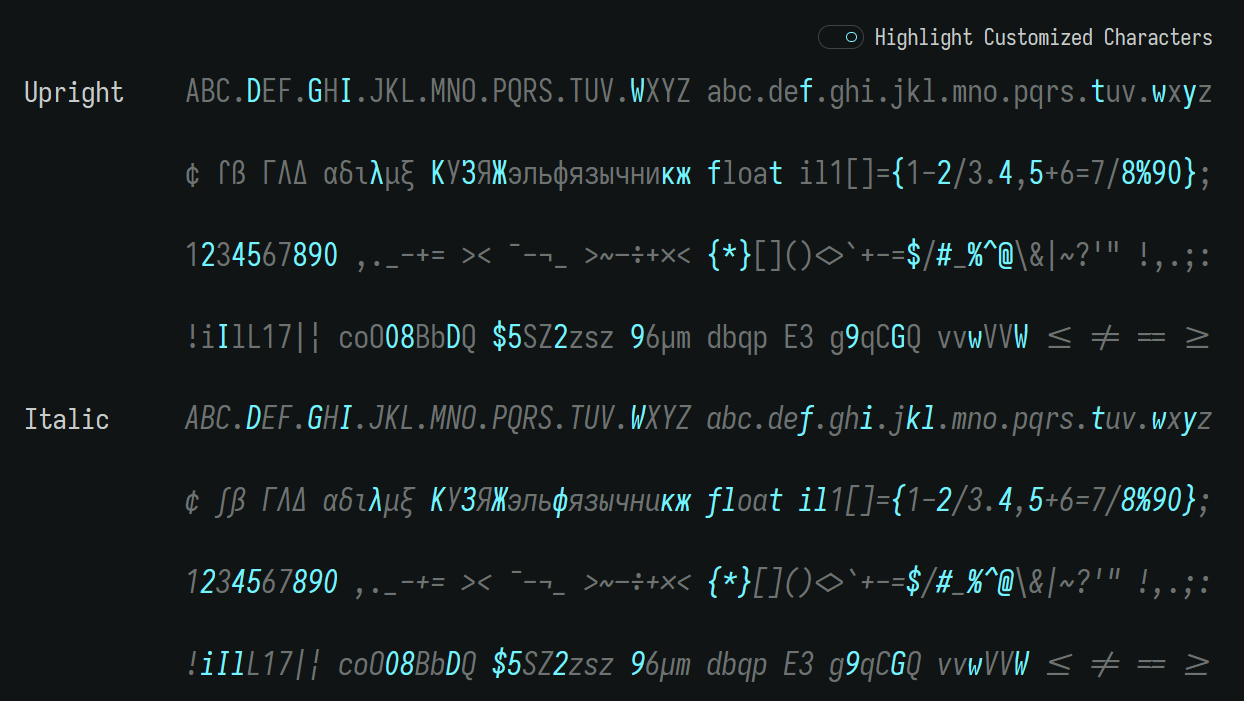
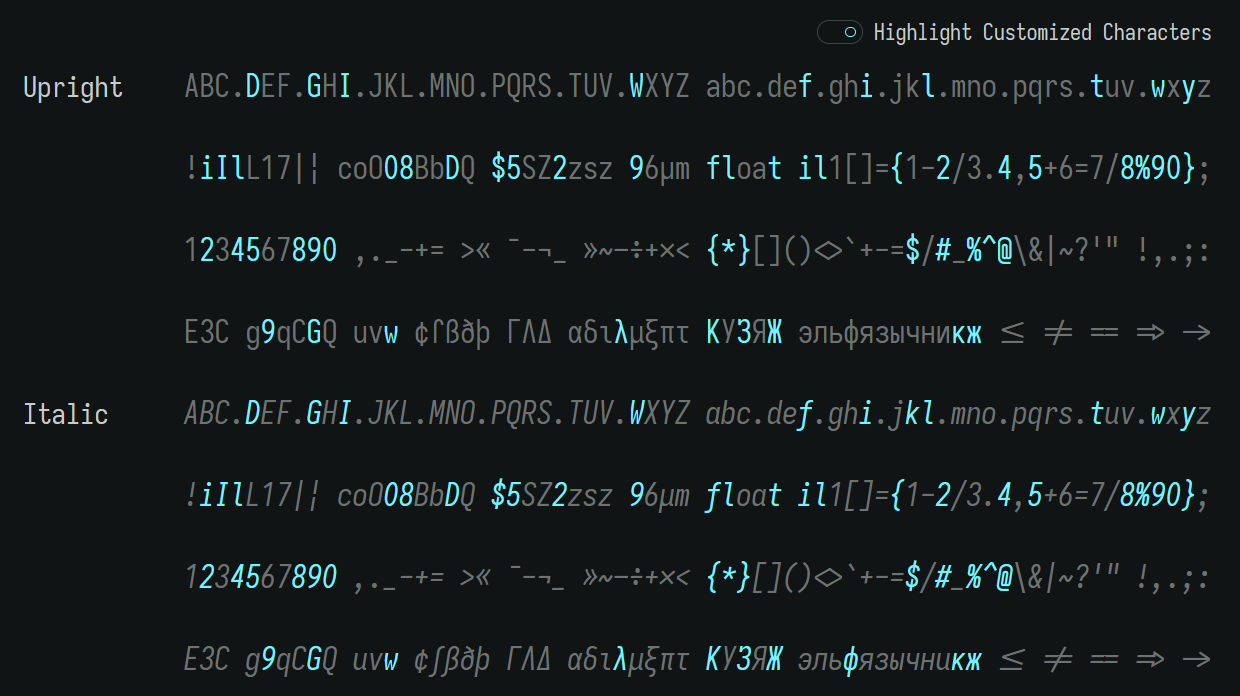
Version `3-27.0.2`
- `i` with shorter top serif and full bottom serif
- `l` with top serif and curly-then-flat tail

diff --git a/README.md b/README.md
@@ -11,9 +11,9 @@ Based of default configuration with changes:
 - `I` with short serifs
 - `W` with curly body; without serifs
 - `f` with flat top hook, descending extension, and crossbar at X-height
-- Serifed `i` (default for Upright), to override default italic
+- `i` with shorter top serif and full bottom serif
 - `k` with standard shape; without serifs, to override default italic
-- Serifed `l` (default for Upright), to override default italic
+- `l` with top serif and curly-then-flat tail
 - `t` with body with flat hook, and a shorter neck
 - `w` with curly body; without serifs
 - `y` with straight shape, and a tail turns leftward; without serifs

diff --git a/CHANGELOG.md b/CHANGELOG.md
@@ -4,6 +4,14 @@ All notable changes to this project will be documented in this file.
 
 The format is based on [Keep a Changelog](https://keepachangelog.com/en/1.0.0/).
 
+## `3-27.0.2`
+
+Release date `2023-09-24`
+
+- `i` with shorter top serif and full bottom serif
+- `l` with top serif and curly-then-flat tail
+- Catch up with Iosevka v27.0.2
+
 ## `2-25.1.1`
 
 Release date `2023-07-28`
